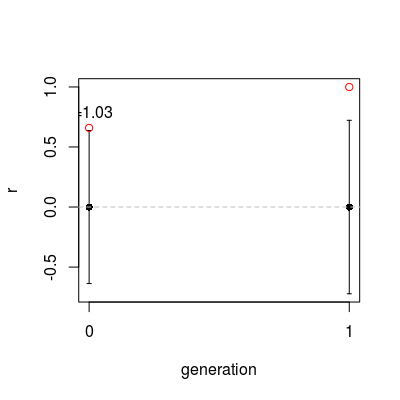
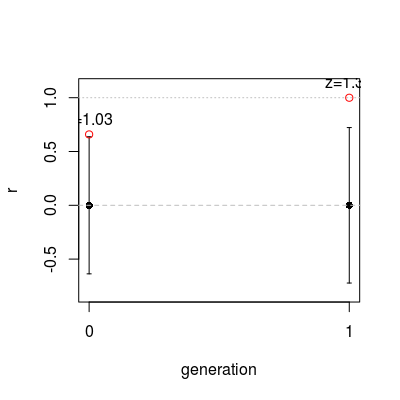
Adding documentation and fixing default plot regions

diff --git a/doc/index.html b/doc/index.html
@@ -53,9 +53,16 @@
 
 <h2>Usage</h2>
 
-<p>A nice HTML documentation is available at <a href="https://rawgit.com/kevinstadler/mantel/master/doc/index.html">https://rawgit.com/kevinstadler/mantel/master/doc/index.html</a></p>
+<p>Call</p>
+
+<pre><code>library(mantel)
+</code></pre>
+
+<p>and then fire away some Mantel tests! A nice HTML documentation is available at <a href="https://rawgit.com/kevinstadler/mantel/master/doc/index.html">https://rawgit.com/kevinstadler/mantel/master/doc/index.html</a></p>
 
 <p>See <a href="https://rawgit.com/kevinstadler/mantel/master/doc/mantel.file.html">mantel.file()</a> for straightforward computation of Mantel tests from an input file. While the command is highly customisable, if you don&#39;t want to mess about with all its parameters it is simplest if you have tab-separated <code>.csv</code> files with the strings in the first column, followed by meaning specifications in the remaining columns.</p>
+
+<p>If you already have the distance matrices computed and you just want to run the actual tests, have a look at <a href="https://rawgit.com/kevinstadler/mantel/master/doc/mantel.test.html">mantel.test()</a>.</p>
 
 <h2>Links</h2>
 

diff --git a/doc/mantel.file.html b/doc/mantel.file.html
@@ -97,7 +97,7 @@ meanings. See <code>mantelexample.csv</code> for a minimal example.</p>
 Specified conflate=TRUE, but there was nothing to conflate.</strong>
 <p><img src='mantel.file-7.png' alt='' width='400' height='400' /></p>
 <div class='output'>  mean        sd veridical   p         z      msample
-0 0.25 0.7905694         1 0.5 0.9486833 1, 1, -0....
+0  0.4 0.7745967         1 0.6 0.7745967 1, 1, -0....
 </div>
 <div class='input'>mantel.file(system.file(&quot;generationsalongrows.csv&quot;, package=&quot;mantel&quot;), plot=&quot;r&quot;, generationcolumn=4)
 </div>

diff --git a/doc/mantel.test.html b/doc/mantel.test.html
@@ -89,8 +89,8 @@ mantel.test(dist(1:4), dist(1:4))
 <div class='input'># smallest distance matrix using random permutations (with maxtrials=1000)
 mantel.test(dist(1:7), dist(1:7))
 </div>
-<div class='output'>        mean        sd veridical p        z      msample
-1 0.01083571 0.2267798         1 0 4.361783 0.014285....
+<div class='output'>           mean        sd veridical p        z      msample
+1 -0.0003928571 0.2217385         1 0 4.511589 -0.05, 0....
 </div></pre>
   </div>
   <div class="span4">

diff --git a/README.md b/README.md
@@ -12,9 +12,15 @@ If this doesn't work you probably need to install the `devtools` package first:
 
 ## Usage
 
-A nice HTML documentation is available at https://rawgit.com/kevinstadler/mantel/master/doc/index.html
+Call
+
+    library(mantel)
+
+and then fire away some Mantel tests! A nice HTML documentation is available at https://rawgit.com/kevinstadler/mantel/master/doc/index.html
 
 See [mantel.file()](https://rawgit.com/kevinstadler/mantel/master/doc/mantel.file.html) for straightforward computation of Mantel tests from an input file. While the command is highly customisable, if you don't want to mess about with all its parameters it is simplest if you have tab-separated `.csv` files with the strings in the first column, followed by meaning specifications in the remaining columns.
+
+If you already have the distance matrices computed and you just want to run the actual tests, have a look at [mantel.test()](https://rawgit.com/kevinstadler/mantel/master/doc/mantel.test.html).
 
 ## Links
 
